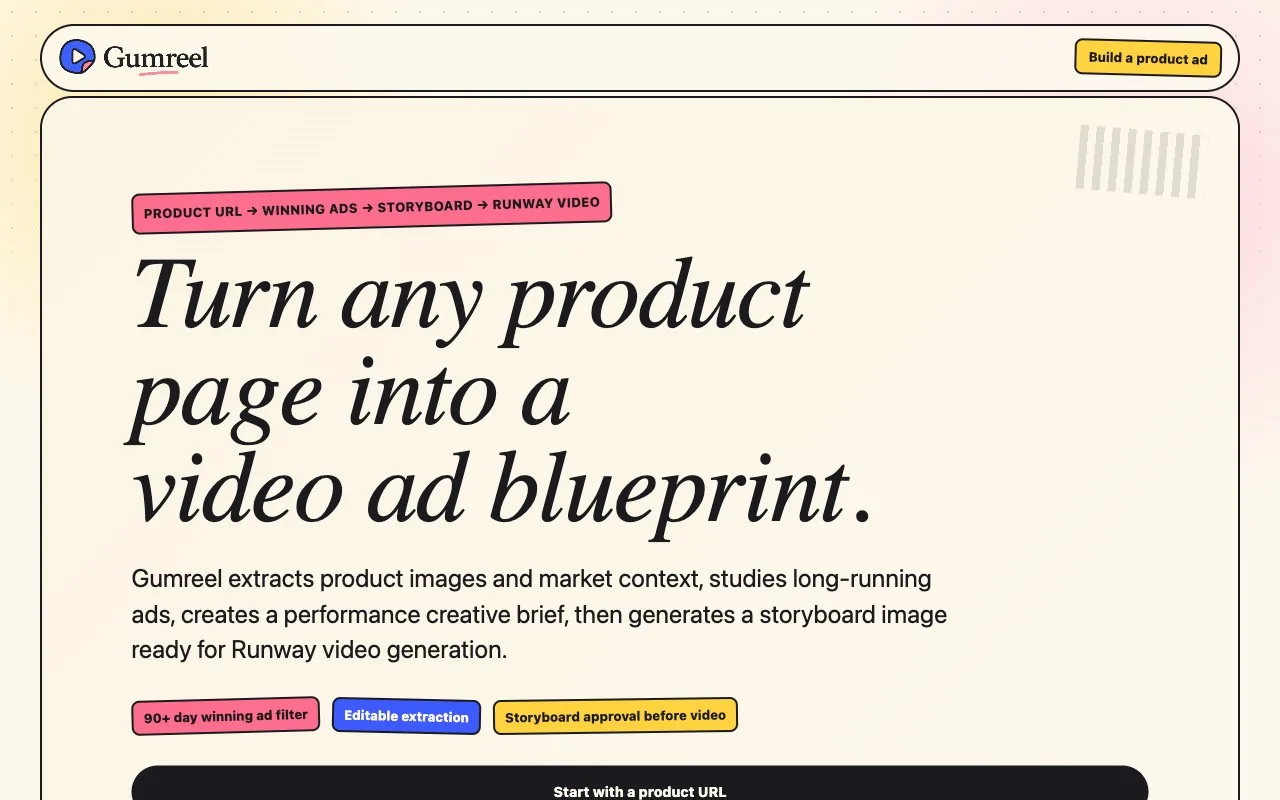
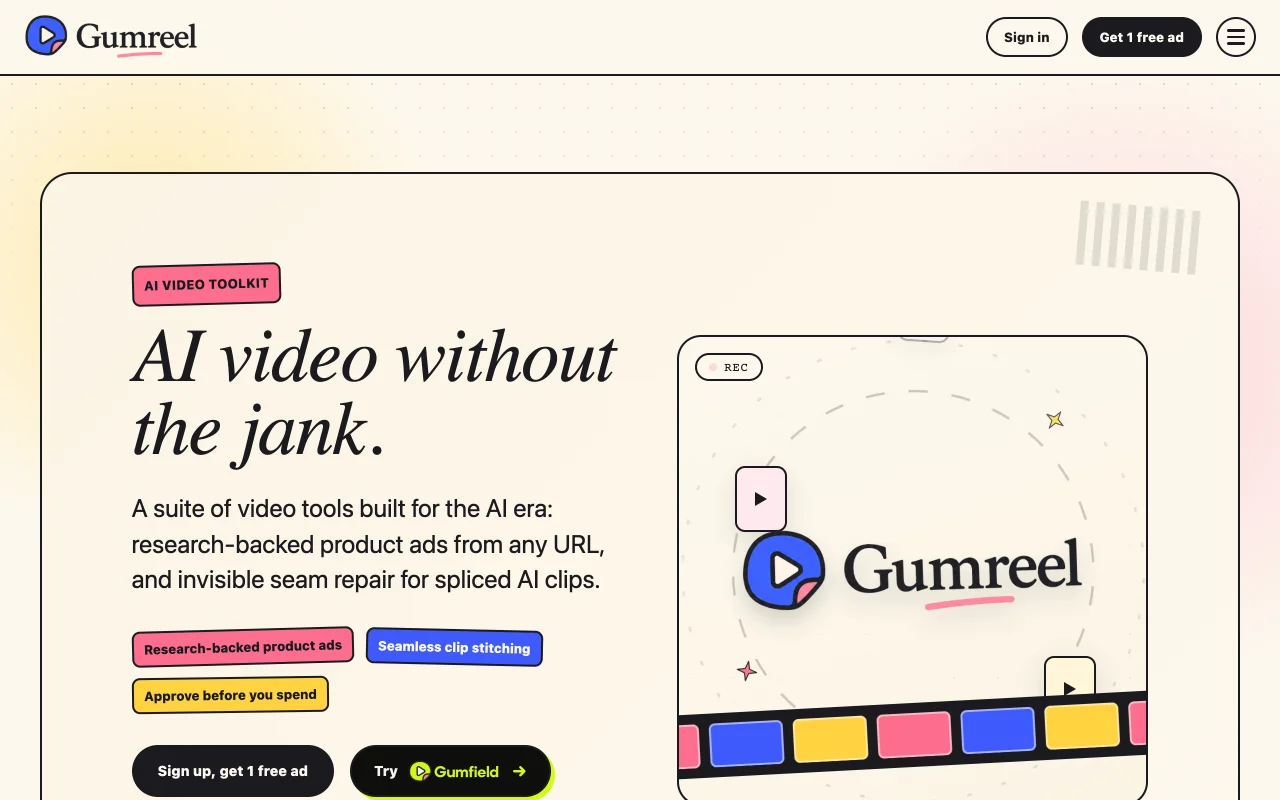
Update Gumreel card, link YT Clip to Gumroad
- Gumreel: new hero thumbnail from gumreel.ai and a description of the full
  toolkit (Gumfield, Product Ad, Clip Stitch, Datamorph) instead of the old
  hackathon ad generator
- YT Clip: "Get it on Gumroad" link; the image now opens the Gumroad page
- ProjectCard: optional websiteLabel prop

diff --git a/src/lib/projects.ts b/src/lib/projects.ts
@@ -7,6 +7,7 @@ export interface Project {
   liveDemoLabel?: string;
   githubUrl?: string;
   websiteUrl?: string;
+  websiteLabel?: string;
   hackathonUrl?: string;
   isVideo?: boolean;
   embedVideo?: boolean;
@@ -27,25 +28,28 @@ export const projects: Project[] = [
       "launchd",
     ],
     githubUrl: "https://github.com/beausterling/yt-clip",
+    websiteUrl: "https://beausterling.gumroad.com/l/ytclip",
+    websiteLabel: "Get it on Gumroad",
   },
   {
     title: "Gumreel",
     description:
-      "Turn any ecommerce product URL into a research-backed short-form video ad. Gumreel extracts the product's images, brand, and market context, researches long-running winning Meta ads (90+ active days), and builds a structured creative brief — then generates an approval-ready storyboard before producing the final video with Runway and Seedance. Built for the Runway API Hackathon.",
+      "An AI video toolkit and creative generation platform, live with paid plans. Gumfield puts 26 image and video models from OpenAI, Google, ByteDance, Kuaishou, Alibaba, xAI and more behind one interface, with per-model settings, a drag-and-drop reference tray, in-browser video trimming, and a gallery. Product Ad turns any product URL into a research-backed video ad, Clip Stitch repairs the seams between chained AI clips so they play as one continuous shot, and Datamorph is a real-time WebGL effects editor. I designed and built the whole platform solo, including a credit system that reserves credits on submit and refunds them automatically when a generation fails.",
     image: "/assets/gumreel.webp",
     technologies: [
       "Next.js",
       "React",
       "Supabase",
       "Clerk",
-      "Anthropic",
-      "OpenAI",
-      "Runway",
-      "Seedance 2.0",
       "Stripe",
+      "OpenAI",
+      "Anthropic",
+      "Seedance",
+      "Kling",
+      "WebGL",
     ],
     liveDemoUrl: "https://youtu.be/qa9cphUV9Cg",
-    liveDemoLabel: "Live Demo",
+    liveDemoLabel: "Product Ad Demo",
     websiteUrl: "https://gumreel.ai",
     isVideo: true,
   },

diff --git a/src/components/ProjectCard.tsx b/src/components/ProjectCard.tsx
@@ -13,6 +13,7 @@ interface ProjectCardProps {
   liveDemoLabel?: string;
   githubUrl?: string;
   websiteUrl?: string;
+  websiteLabel?: string;
   hackathonUrl?: string;
   reverse?: boolean;
   isVideo?: boolean;
@@ -28,6 +29,7 @@ const ProjectCard = ({
   liveDemoLabel = "Live Demo",
   githubUrl,
   websiteUrl,
+  websiteLabel = "Website",
   hackathonUrl,
   reverse = false,
   isVideo = false,
@@ -189,7 +191,7 @@ const ProjectCard = ({
                   className="flex items-center gap-2 text-sm text-gray-300 hover:text-neon transition-colors"
                 >
                   <Globe size={16} />
-                  Website
+                  {websiteLabel}
                 </a>
               )}
 
